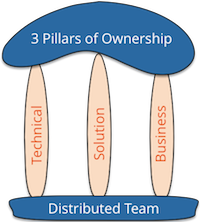
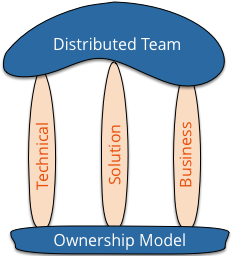
updated distributed team ownership model

diff --git a/data/sunitblog/posts/distributed-team-ownership-model/distributed-team-ownership-model.md b/data/sunitblog/posts/distributed-team-ownership-model/distributed-team-ownership-model.md
@@ -1,29 +1,46 @@
 ---
 tags: [software-development, distributed-teams]
 title: Ownership model for distributed team
-publish_datetime: 2016-10-31T00:00:07.0Z
-description: In distributed teams it is very important that each team operates in complete autonomy. And there is need for team to be independent and takes ownership. However, everyone has different views and understanding of ownership. I like to define ownership with 3 aspects which can help to build common understanding of ownership and eventually help team taking more ownership.   
+publish_datetime: 2016-04-13T00:00:07.0Z
+description: In distributed teams it is very important that each team operates in complete autonomy. And there is need for team to be independent and takes ownership. However, everyone has different views and understanding of ownership. Here is what worked for me in terms of distributed team and clear definition of ownership across teams.    
 authors: ["ref:authors:sunitparekh"]
 ---
 
-Setting up distributed team is very common in new world of software development. However, it is equally important that each team operates in complete autonomy. And there is need for team to be independent and takes ownership. However, everyone has different views and understanding of ownership. I like to define ownership with 3 aspects which can help to build common understanding of ownership and eventually help team taking more ownership.   
+Setting up distributed team is very common in new world of software development. However, it is equally important that each team operates in complete autonomy and there is a need for teams to be independent, taking ownership and deliver. However, everyone has different views and understanding of ownership. I would like to take this opportunity to explain my view on different aspects of ownership which can help stakeholders and team in having common understanding of expectations and help deliver with ownership and accountability.   
 
-To answer all of above let's first define, what is ownership and different aspect of ownership. In software development I like to define ownership as 3 pillars - technical, solution and business. Let me elaborate,
+Let's start with first understanding different aspects of ownership. Software development ownership can be viewed as three types **technical**, **solution** and **business**. 
 
-![3 Pillars of Ownership for Distributed Teams](ref:images:posts/distributed-team-ownership-model/distributed-team-ownership-model-original.svg "3 Pillars of Ownership for Distributed Teams")
+![3 Types of Ownership for Distributed Teams](ref:images:posts/distributed-team-ownership-model/distributed-team-ownership-model.png "3 Types of Ownership for Distributed Teams")
 {: .center}
  
  
-1. **Technical ownership** means delivering quality code by following engineering practices such as coding, refactoring, continuous integration, build and deployment etc. along with full autonomy is in my view is technical ownership. Technical ownership also includes owning technical decisions including architecture and design patterns for software development. 
- 
-2. **Solution ownership** is about providing solutions to solve business problems. e.g. a) for retail website building recommendation engine based on what use is looking for, b) to achieve mobile first build UX/UI with responsive web design approach. Solution also involves how we can deliver the feature e.g. define MVP and roll out as first cut to end users and with each release keep enhancing the feature as needed. This approach is also known as lean software development which required better project planning and tracking skills.  
- 
-3. **Business ownership** involves working closely with business in defining business needs and helping in building solution to solve the problem. e.g. on retail website defining the reward scheme and to promote mobile applications give more reward.  
+1. **Technical ownership** means delivering quality product (code) by following engineering practices such as unit testing, refactoring, continuous integration, automated build and deployment etc. with full autonomy. Technical ownership also includes owning technical decisions at low level including following design patterns, cleaner API development for software development. 
 
-In my view each of above can have maturity levels within. In **technical ownership** delivering good quality code could be the first step and reaching continuous delivery with automated build and deployment could be the highest maturity level. For **solution ownership** deciding appropriate technology to solve the problem is first and coming up with full plan on how to deliver the solution is highest level of maturity. The most tricky one is **business ownership** where it is very difficult to define what is expected. However, best way to judge is, Is business calling you to discuss and define requirements. If yes, you are there. 
+In *technical ownership* delivering quality code could be the first step and reaching continuous delivery with automated build and deployment could be the higher level of maturity.
  
-Now, it is important to understand, what is expected as well as what is desired by the team. In distributed team, team should have specific roles to achieve each type of ownership. Developers, QAs and BAs can help achieve Technical ownership. However, without Tech Leads and Project/Program Managers is is difficult to achieve Solution leadership. Similarly we need Product Owners and Senior BAs to achieve Business ownership. *So it is important for the stakeholders to setup team based on what is expected from the team.*  
- 
-Each type of ownership pillars are independent form each other. Each type of ownership can be achieved individually based on what is desired and expected from the team. And team can have different maturity level in different ownership pillars. Also to make team fully autonomous and independent, all of 3 pillars are important. 
+2. **Solution ownership** is about providing solutions to solve business problems. e.g. a) for retail website building recommendation engine based on what a user is searching for, b) to achieve mobile first build UX/UI with responsive web design approach. Solution also involves how we can deliver the feature e.g. define MVP and roll out as first cut to end users and with each release keep enhancing the feature as needed. 
 
-Please share your experience in comments below.  
+For *solution ownership* deciding appropriate technology to solve the problem (using ElasticSearch for free text search) is first and making tech stack, frameworks and architecture decisions and delivering it (Java vs .NET, microservice architecture, NoSQL datastore), is higher level of maturity 
+ 
+3. **Business ownership** involves working closely with business in defining business needs and helps in building digital solution to solve the problem. e.g. on retail website defining the reward scheme and to promote mobile applications give more reward. Plays partner role with business owners and gets involved in defining long term business strategies as well.  
+
+The most tricky one is *business ownership* where it is very difficult to define what is expected. One way to detect this maybe how early do you get involved in the discussion. Do you get to define the requirement, and identify the problem or does get involved only after the requirement and likely solution have been decided. 
+ 
+#### Lets take example of retail business and see two classical distributed team models,
+
+**Vertical/Feature based full ownership team model**: setup teams with all roles to take up full ownership of feature. E.g. Product Catalog team, Order management team, Shipping management team. Each team has full autonomy to operate from business decision to technology choices made in respective area. 
+
+**Horizontal/Competency based ownership team model**: Front end web team, Mobile team, API team, Operations team, … each team has specific role to play and take ownership of each area specifically technical and solution ownership. 
+
+![Horizontal/Competency based Distributed Team Model](ref:images:posts/distributed-team-ownership-model/distributed-team.png "Horizontal/Competency based Distributed Team Model")
+{: .center}
+
+Feature based full ownership team is what I think better for ownership and accountability. However, I have see more horizontal/competency based ownership model in practice. In my view having clarify with all members about the team model is more important and choose whatever works for you.  
+
+### Each type of ownership needs specific roles in each location
+
+It is important to understand, what is expected from the team and capability &amp; strength of each team? Above becomes less relevant when team is co-located since everyone is within walk and talk reach. And it becomes more relevant in distributed team, each team requires specific roles to achieve each type of ownership. 
+
+1. Developers, QAs and BAs can help achieve Technical ownership. 
+2. We need tech leadership to provide architecture solution along with supporting roles like project management for execution and planning. 
+3. Similarly we need Product Owners and Senior BAs to achieve Business ownership. 

diff --git a/data/sunitblog/posts/collaboration-in-distributed-teams/collaboration-techniques-large-distributed-agile-projects.md b/data/sunitblog/posts/collaboration-in-distributed-teams/collaboration-techniques-large-distributed-agile-projects.md
@@ -6,4 +6,4 @@ description: In past few years, it has become quite common for software developm
 url: "https://www.thoughtworks.com/insights/blog/collaboration-techniques-large-distributed-agile-projects"
 ---
 
-n past few years, it has become quite common for software development teams to be distributed across time-zones and comprise of multiple vendors with 50-100+ people. Post is about different things and techniques that worked for me in large distributed agile projects such as healthy product backlog with clear separation, choosing the right tool for team collaboration, effective agile practices, clear and honest communication...
+In past few years, it has become quite common for software development teams to be distributed across time-zones and comprise of multiple vendors with 50-100+ people. Post is about different things and techniques that worked for me in large distributed agile projects such as healthy product backlog with clear separation, choosing the right tool for team collaboration, effective agile practices, clear and honest communication...
